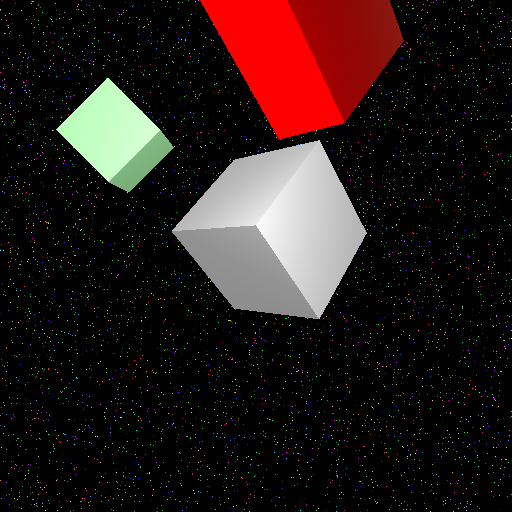
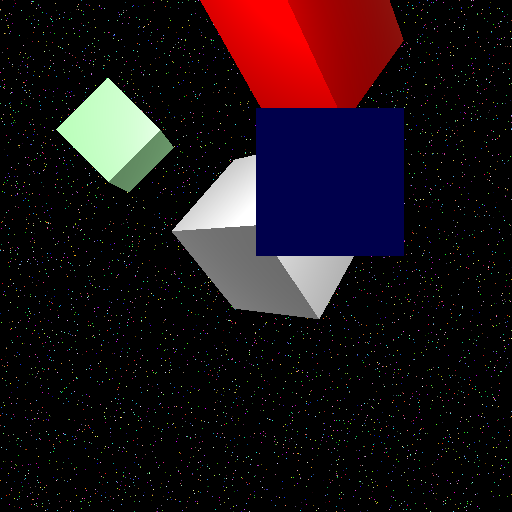
added plane primitive

Changed region(s): [[0.3438, 0.0, 0.8125, 0.625], [0.2188, 0.25, 0.3438, 0.375], [0.5625, 0.0, 0.625, 0.0625]]

diff --git a/A4/Primitive.cpp b/A4/Primitive.cpp
@@ -26,6 +26,11 @@ Intersect Primitive::checkIntersection(const Ray & ray) {
     return Intersect();
 }
 
+/*
+Sphere
+#######################
+*/
+
 Sphere::~Sphere()
 {
 }
@@ -58,11 +63,56 @@ Intersect Sphere::checkIntersection(const Ray & ray) {
     }
 }
 
+/*
+Plane
+#######################
+
+a square plane from (0,0,0) to (1,1,0)
+With a normal pointing in (0,0,1)
+So it would be visible when looking down the z axis
+
+*/
+
+Plane::~Plane()
+{
+}
+
+Intersect Plane::checkIntersection(const Ray & ray) {
+
+    Intersect closestIntersect = Intersect();
+
+    // Intersects plane if dot product of direction and normal is negative
+    // distanceHit is positive along the ray
+    double dirNormDot, originPointNormDot;
+    if ((dirNormDot = glm::dot(ray.direction, axisNormals[4])) < 0 && (originPointNormDot = glm::dot(ray.origin, axisNormals[4])) > 0) {
+
+        double distanceHit = originPointNormDot/-dirNormDot;
+        
+        // Intersects face if intersect point within bounds
+        glm::vec3 pointHit = ray.pointAtDistance(distanceHit);
+
+        // for each axis that we need to check
+        bool withinBounds = pointHit.x >= 0 && pointHit.x <= 1.0 && pointHit.y >= 0 && pointHit.y <= 1.0;
+
+        // It's a hit!
+        if (withinBounds) {
+            closestIntersect = Intersect(ray, distanceHit > ray.minDistance, distanceHit, axisNormals[4]);
+        }
+    }
+    
+    return closestIntersect;
+}
+
+
+/*
+Cube
+#######################
+*/
+
 Cube::~Cube()
 {
 }
 
-// m_pos = (0,0,0) and m_dimensions = (1,1,1)
 Intersect Cube::checkIntersection(const Ray & ray) {
 
     // Find all planes that the ray intersects with
@@ -107,6 +157,7 @@ Intersect Cube::checkIntersection(const Ray & ray) {
     }
     return closestIntersect;
 }
+
 /*
 Non-heirarchical Sphere
 #######################
@@ -147,6 +198,11 @@ Intersect NonhierSphere::checkIntersection(const Ray & ray) {
         return Intersect();
     }
 }
+
+/*
+Non-heirarchical Sphere
+#######################
+*/
 
 NonhierBox::~NonhierBox()
 {

diff --git a/A4/A4.cpp b/A4/A4.cpp
@@ -199,22 +199,6 @@ void A4_Render(
 			std::cout << " [Elapsed Time: " << (intermediate_time - start_time)/double(CLOCKS_PER_SEC) << " seconds] \t" << '\r';
 			std::cout.flush();
 
-			// TODO: remove. make a white border and cross hairs
-			//if (y == 0 || y == imageHeight/2 || y == imageHeight-1 || x == 0 || x == imageWidth/2 || x == imageWidth-1) {
-			//	image(x, y, 0) = 1;
-			//	image(x, y, 1) = 1;
-			//	image(x, y, 2) = 1;
-			//}
-
-			/*
-			// Red: increasing from top to bottom
-			image(x, y, 0) = (double)y / h;
-			// Green: increasing from side to right
-			image(x, y, 1) = (double)x / w;
-			// Blue: in lower-side and upper-right corners
-			image(x, y, 2) = ((y < h/2 && x < w/2)
-						  || (y >= h/2 && x >= w/2)) ? 1.0 : 0.0;
-			*/
 		}
 	}
 	std::cout << std::endl;

diff --git a/A4/scene_lua.cpp b/A4/scene_lua.cpp
@@ -176,6 +176,24 @@ int gr_sphere_cmd(lua_State* L)
   return 1;
 }
 
+// Create a plane node
+extern "C"
+int gr_plane_cmd(lua_State* L)
+{
+  GRLUA_DEBUG_CALL;
+  
+  gr_node_ud* data = (gr_node_ud*)lua_newuserdata(L, sizeof(gr_node_ud));
+  data->node = 0;
+  
+  const char* name = luaL_checkstring(L, 1);
+  data->node = new GeometryNode(name, new Plane());
+
+  luaL_getmetatable(L, "gr.node");
+  lua_setmetatable(L, -2);
+
+  return 1;
+}
+
 // Create a cube node
 extern "C"
 int gr_cube_cmd(lua_State* L)
@@ -525,6 +543,8 @@ static const luaL_Reg grlib_functions[] = {
   {"mesh", gr_mesh_cmd},
   {"light", gr_light_cmd},
   {"render", gr_render_cmd},
+  // New for project
+  {"plane", gr_plane_cmd},
   {0, 0}
 };
 

diff --git a/A4/Primitive.hpp b/A4/Primitive.hpp
@@ -33,6 +33,15 @@ private:
   glm::vec3 points[2];
 };
 
+class Plane : public Primitive {
+public:
+  Plane() {
+  }
+  virtual ~Plane();
+  virtual Intersect checkIntersection(const Ray & ray);
+private:
+};
+
 class NonhierSphere : public Primitive {
 public:
   NonhierSphere(const glm::vec3& pos, double radius)
